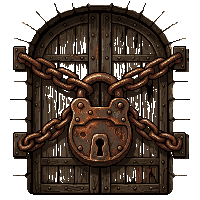
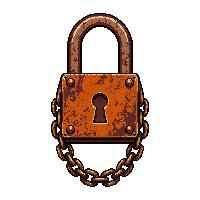
Uma porta só, acompanhamentos fora e confirmação pelo grupo
A cena da porta lia como cinco portas: cada barricada tinha sido gerada
com "blocking a doorway" e trouxe a própria moldura embutida.

- Os 5 objetos foram regerados isolados, sem moldura nem parede, e
  recompostos sobre a mesma porta: fita e tábuas pregadas nela, cadeado
  na lateral, halter encostado na base, cachorro de cone na frente.
  A porta agora aparece inteira e vai sendo liberada
- O cone saiu como um cachorro usando o cone, o que serve melhor à
  piada da veterinária; a mensagem acompanhou
- Acompanhamentos (arroz, vinagrete, feijão) removidos, junto com os
  ícones. O que levar virou só bebida alcoólica, se for beber
- Confirmação passa pelo grupo do WhatsApp em dois passos: copiar a
  mensagem e colar no grupo. Link de grupo não aceita texto
  pré-preenchido, só wa.me aceita, daí os dois passos
- Constante WHATSAPP removida

Verificado em 320 e 375px: sem estouro, sem alvo abaixo de 44px,
nenhuma imagem quebrada, console limpo.

diff --git a/index.html b/index.html
@@ -175,7 +175,7 @@ small{color:var(--fg-dim);}
   touch-action:manipulation;
 }
 #porta{
-  width:62%; grid-area:1/1; z-index:1;
+  width:74%; grid-area:1/1; z-index:1;
   filter:drop-shadow(0 12px 16px #000a);
   transition:opacity .2s ease;
 }
@@ -192,11 +192,13 @@ small{color:var(--fg-dim);}
 .barricada:focus-visible{outline:3px solid var(--gold); outline-offset:4px; border-radius:6px;}
 .barricada.quebrada{opacity:0; transform:scale(.35) rotate(calc(var(--r) + 30deg)); pointer-events:none;}
 
-#b-supino {top:-2%;  left:-4%;  width:56%; --r:-7deg;  transform:rotate(-7deg);}
-#b-cone   {top:4%;   right:-5%; width:45%; --r:9deg;   transform:rotate(9deg);}
-#b-fita   {top:34%;  left:9%;   width:76%; --r:-2deg;  transform:rotate(-2deg); z-index:6;}
-#b-tabuas {bottom:8%; left:-7%; width:54%; --r:6deg;   transform:rotate(6deg);}
-#b-cadeado{bottom:1%; right:-3%;width:43%; --r:-8deg;  transform:rotate(-8deg);}
+/* tudo encostado/pregado na MESMA porta: ela aparece inteira por baixo
+   e vai sendo liberada conforme cada objeto sai */
+#b-fita   {top:13%; left:24%;  width:52%; --r:-3deg; transform:rotate(-3deg);  z-index:6;}
+#b-tabuas {top:36%; left:21%;  width:58%; --r:2deg;  transform:rotate(2deg);   z-index:7;}
+#b-cadeado{top:49%; right:12%; width:25%; --r:-6deg; transform:rotate(-6deg);  z-index:8;}
+#b-supino {bottom:6%; left:-2%; width:48%; --r:-9deg; transform:rotate(-9deg); z-index:9;}
+#b-cone   {bottom:2%; right:4%; width:30%; --r:4deg;  transform:rotate(4deg);  z-index:9;}
 
 #vfx-camada{position:absolute; inset:0; pointer-events:none; z-index:9; display:grid; place-items:center;}
 #vfx-camada img{grid-area:1/1; opacity:0; transition:opacity .12s linear;}
@@ -356,6 +358,17 @@ textarea{min-height:76px; resize:vertical;}
 }
 .item[aria-pressed="true"] span{color:var(--fg);}
 
+.passos{display:flex; flex-direction:column; gap:10px;}
+.passo{display:flex; gap:11px; align-items:flex-start; margin-top:4px;}
+.passo .num{
+  flex:none; width:25px; height:25px; border-radius:50%;
+  background:var(--accent); color:#2a1206;
+  font-weight:900; font-size:14px;
+  display:flex; align-items:center; justify-content:center;
+}
+.passo b{display:block; font-size:14.5px; color:var(--fg); line-height:1.35;}
+.passo small{display:block; color:var(--fg-dim); font-size:12.5px; line-height:1.4; margin-top:2px;}
+
 #resumo{
   background:#15100d; border:1px dashed var(--wood); border-radius:10px;
   padding:13px; font-size:13.5px; line-height:1.65; color:var(--fg-dim);
@@ -440,8 +453,8 @@ footer a{color:#a08977;}
       <img src="assets/barricadas/barricada_supino.png" alt="">
     </button>
     <button class="barricada" id="b-cone" type="button"
-            data-msg="Até o paciente fugiu dessa porta."
-            aria-label="Tirar o cone de cachorro da frente da porta">
+            data-msg="Esse aí é paciente meu. Tá de boa, só não sai da frente."
+            aria-label="Tirar o cachorro de cone da frente da porta">
       <img src="assets/barricadas/barricada_cone.png" alt="">
     </button>
     <button class="barricada" id="b-fita" type="button"
@@ -501,7 +514,7 @@ footer a{color:#a08977;}
       <dd>Rua das Orquídeas<small>Condomínio Villaggio Jardins 3</small></dd>
       <div class="sep"></div>
       <dt>Leva</dt>
-      <dd>Sua bebida<small>e gelo, se puder</small></dd>
+      <dd>Sua bebida alcoólica<small>se for beber. O resto é comigo</small></dd>
     </dl>
     <div class="nota-carne">
       <span>A <b>carne é por minha conta</b>. Pode vir de mãos abanando.</span>
@@ -553,23 +566,6 @@ footer a{color:#a08977;}
           <label class="check"><input type="checkbox" id="bebe"> Vou beber álcool</label>
         </div>
 
-        <div id="bloco-itens" class="campo" hidden>
-          <span>Posso contar com você pra levar algo?</span>
-          <p style="font-size:12.5px; margin-bottom:2px;">Arroz eu não sei fazer. Se puder trazer algo, marca aí:</p>
-          <div class="itens" role="group" aria-label="O que você leva">
-            <button type="button" class="item" data-item="Arroz" aria-pressed="false">
-              <img src="assets/icones/icone_arroz.png" alt=""><span>Arroz</span>
-            </button>
-            <button type="button" class="item" data-item="Vinagrete" aria-pressed="false">
-              <img src="assets/icones/icone_vinagrete.png" alt=""><span>Vinagrete</span>
-            </button>
-            <button type="button" class="item" data-item="Feijão" aria-pressed="false">
-              <img src="assets/icones/icone_feijao.png" alt=""><span>Feijão</span>
-            </button>
-          </div>
-          <p style="font-size:12px; margin-top:4px;">Quem leva o quê a gente acerta no grupo. Ninguém precisa chegar com três panelas de arroz.</p>
-        </div>
-
         <label class="campo" for="recado">
           <span>Recado pro aniversariante (opcional)</span>
           <textarea id="recado" maxlength="240" placeholder="Zoeira é bem-vinda."></textarea>
@@ -580,8 +576,25 @@ footer a{color:#a08977;}
           <div id="resumo" aria-live="polite">Preenche aí em cima que eu monto sua mensagem.</div>
         </div>
 
-        <button id="enviar" class="btn btn-plaque" type="button">Enviar no WhatsApp</button>
-        <button id="copiar" class="btn btn-ghost" type="button">Copiar a mensagem</button>
+        <div class="passos">
+          <div class="passo">
+            <span class="num">1</span>
+            <div>
+              <b>Copie sua confirmação</b>
+              <small>o texto que aparece aí em cima</small>
+            </div>
+          </div>
+          <button id="copiar" class="btn btn-plaque" type="button">Copiar confirmação</button>
+
+          <div class="passo">
+            <span class="num">2</span>
+            <div>
+              <b>Entre no grupo e cole lá</b>
+              <small>é no grupo que eu organizo tudo: carne, horário e mudança de planos</small>
+            </div>
+          </div>
+          <a id="grupo" class="btn btn-primary" href="https://chat.whatsapp.com/HcoQIyc8Am85yQP3G7pUfu?s=cl&amp;p=i&amp;mlu=4&amp;ilr=4&amp;iam=2" target="_blank" rel="noopener">Entrar no grupo do churrasco</a>
+        </div>
         <p id="aviso-zap" class="center" role="status" aria-live="polite"></p>
 
       </div>
@@ -629,14 +642,6 @@ footer a{color:#a08977;}
 <script>
 (function(){
 "use strict";
-
-/* ============================================================
-   ⬇⬇⬇  COLE AQUI O SEU NÚMERO DE WHATSAPP  ⬇⬇⬇
-   Só dígitos: 55 (Brasil) + DDD + número.
-   Ex.: "5562999887766"
-   Enquanto estiver vazio, o botão copia a mensagem em vez de abrir o zap.
-   ============================================================ */
-var WHATSAPP = "";
 
 /* ---------------------- SOM (8-bit, mudo por padrão) ---------------------- */
 var ctx = null, mudo = true;
@@ -850,7 +855,6 @@ document.getElementById('maps').href =
 var status = null;
 var escolhas = Array.prototype.slice.call(document.querySelectorAll('.escolha'));
 var blocoAcomp = document.getElementById('bloco-acompanhante');
-var blocoItens = document.getElementById('bloco-itens');
 var temAcomp = document.getElementById('tem-acompanhante');
 var campoAcomp = document.getElementById('campo-acompanhante');
 var resumo = document.getElementById('resumo');
@@ -860,22 +864,13 @@ escolhas.forEach(function(btn){
   btn.addEventListener('click', function(){
     status = btn.getAttribute('data-status');
     escolhas.forEach(function(e){ e.setAttribute('aria-pressed', String(e === btn)); });
-    var vai = status !== 'nao';
-    blocoAcomp.hidden = !vai;
-    blocoItens.hidden = !vai;
+    blocoAcomp.hidden = (status === 'nao');
     montarResumo();
   });
 });
 temAcomp.addEventListener('change', function(){
   campoAcomp.hidden = !temAcomp.checked;
   montarResumo();
-});
-Array.prototype.forEach.call(document.querySelectorAll('.item'), function(it){
-  it.addEventListener('click', function(){
-    var on = it.getAttribute('aria-pressed') === 'true';
-    it.setAttribute('aria-pressed', String(!on));
-    montarResumo();
-  });
 });
 ['nome','nome-acompanhante','recado'].forEach(function(id){
   document.getElementById(id).addEventListener('input', montarResumo);
@@ -884,10 +879,6 @@ Array.prototype.forEach.call(document.querySelectorAll('.item'), function(it){
   document.getElementById(id).addEventListener('change', montarResumo);
 });
 
-function itensEscolhidos(){
-  return Array.prototype.slice.call(document.querySelectorAll('.item[aria-pressed="true"]'))
-    .map(function(i){ return i.getAttribute('data-item'); });
-}
 function valor(id){ return (document.getElementById(id).value || '').trim(); }
 
 function montarMensagem(){
@@ -904,11 +895,8 @@ function montarMensagem(){
     }
     var extras = [];
     if(document.getElementById('veg').checked) extras.push('vegetariano(a)');
-    if(document.getElementById('bebe').checked) extras.push('bebe álcool');
+    if(document.getElementById('bebe').checked) extras.push('vou levar bebida');
     if(extras.length) linhas.push('*Obs:* ' + extras.join(', '));
-
-    var itens = itensEscolhidos();
-    if(itens.length) linhas.push('*Eu levo:* ' + itens.join(', '));
   }
 
   var rec = valor('recado');
@@ -925,7 +913,7 @@ function montarResumo(){
   resumo.textContent = montarMensagem().replace(/\*/g, '');
 }
 
-document.getElementById('enviar').addEventListener('click', function(){
+document.getElementById('copiar').addEventListener('click', function(){
   if(!status){
     aviso.style.color = 'var(--bad)';
     aviso.textContent = 'Falta escolher: Bora, Talvez ou Não vou.';
@@ -934,30 +922,18 @@ document.getElementById('enviar').addEventListener('click', function(){
   }
   if(!valor('nome')){
     aviso.style.color = 'var(--bad)';
-    aviso.textContent = 'Coloca seu nome aí em cima, senão eu não sei quem é 😅';
+    aviso.textContent = 'Coloca seu nome aí em cima, senão eu não sei quem é.';
     document.getElementById('nome').focus();
     return;
   }
-  var texto = montarMensagem();
   sfxOk();
-  if(WHATSAPP){
-    window.open('https://wa.me/' + WHATSAPP + '?text=' + encodeURIComponent(texto), '_blank', 'noopener');
-    aviso.style.color = 'var(--ok)';
-    aviso.textContent = status === 'sim'
-      ? 'Abri o WhatsApp — é só mandar. Depois não encosta em nada meu. 😏'
-      : 'Abri o WhatsApp — é só mandar.';
-  } else {
-    copiar(texto, 'Número do zap ainda não configurado — copiei a mensagem, manda pro aniversariante.');
-  }
+  copiar(montarMensagem(), 'Copiado. Agora entra no grupo e cola lá.');
 });
 
-document.getElementById('copiar').addEventListener('click', function(){
-  if(!status){
-    aviso.style.color = 'var(--bad)';
-    aviso.textContent = 'Escolhe uma opção antes de copiar.';
-    return;
-  }
-  copiar(montarMensagem(), 'Copiado! Agora é só colar no WhatsApp. 📋');
+document.getElementById('grupo').addEventListener('click', function(){
+  if(status && valor('nome')) return;
+  aviso.style.color = 'var(--warn)';
+  aviso.textContent = 'Dica: preenche e copia a confirmação antes, pra já colar no grupo.';
 });
 
 function copiar(texto, okMsg){

diff --git a/README.md b/README.md
@@ -12,19 +12,18 @@ da frente de uma porta remendada até ela ceder — aí o convite aparece.
 | 1. A porta | 5 entulhos clicáveis (supino, cone de cachorro, fita de bug, tábuas, cadeado), cada um com tremida de tela, efeito de impacto, som 8-bit e uma piada. Barra de integridade de 100% a 0%. |
 | 2. Revelação | A porta racha, cai com poeira e revela o quintal. O aniversariante aparece animado; cutuque-o para ver outras poses (a 4ª é um easter egg). |
 | 3. Convite | Data, hora, endereço com link do Maps e contagem regressiva ao vivo. |
-| 4. Confirmação | Formulário que monta uma mensagem formatada e abre o WhatsApp já preenchido. |
+| 4. Confirmação | Formulário que monta uma mensagem formatada, em dois passos: copiar e colar no grupo do WhatsApp. |
 | 5. Painel | Área privada em `#painel`: lista de confirmados com check-in e cálculo de compras. |
 
-## ⚙ Configurar antes de divulgar
+## ⚙ O link do grupo
 
-Abra `index.html` e preencha o número de WhatsApp que recebe as confirmações:
+A confirmação acontece no grupo do WhatsApp. O link está no `href` do
+elemento `#grupo`, dentro do `index.html`.
 
-```js
-var WHATSAPP = "5562999887766"; // 55 + DDD + número, só dígitos
-```
-
-Enquanto estiver vazio, o botão copia a mensagem para a área de transferência
-em vez de abrir o WhatsApp — a página continua funcionando.
+Links de convite de grupo (`chat.whatsapp.com`) **não aceitam mensagem
+pré-preenchida** — só links de conversa direta (`wa.me`) aceitam `?text=`.
+Por isso o fluxo é em dois passos: a página monta a mensagem, a pessoa
+copia e cola no grupo depois de entrar.
 
 ## Painel do organizador
 
@@ -39,11 +38,10 @@ index.html              página inteira (HTML + CSS + JS, sem dependências)
 assets/
   personagem/           8 direções + 5 animações de 5 frames
   porta/                3 estados (completa, rachando, caída)
-  barricadas/           5 objetos
+  barricadas/           5 objetos isolados, encostados na porta
   cenario/              quintal do churrasco
   vfx/                  impacto, poeira, fumaça
   ui/                   moldura, placa de botão, fonte pixel
-  icones/               arroz, vinagrete, feijão
 CONTEXTO.md             decisões do projeto
 ROADMAP.md              fases e o que foi entregue
 ```

diff --git a/ROADMAP.md b/ROADMAP.md
@@ -71,6 +71,36 @@ Ordem sugerida, cada item aprovado antes de seguir pro próximo:
 - [x] Moldura e placa de madeira com `border-image` fatiado (não deforma o pixel art)
 - [x] Fonte pixel aplicada só em números/rótulos ASCII (ela não tem acentos)
 
+## Fase 8 — Ajustes pós-publicação 🔧
+
+### 8.1 A porta: uma só, sendo desobstruída ✅
+**Problema:** cada barricada foi gerada com "blocking a doorway", então cada PNG tinha a
+própria moldura de porta embutida. Empilhadas, liam-se como cinco portas.
+
+- [x] Regerados os 5 objetos **isolados** via `create_image_pixflux` (1 geração cada,
+      5 no total, contra 50 pelo caminho de objeto)
+- [x] Recomposta a cena: fita e tábuas pregadas na porta, cadeado na lateral,
+      halter encostado na base, cachorro de cone sentado na frente
+- [x] A porta agora aparece inteira por baixo e vai sendo liberada
+- [x] O cone virou um cachorro usando o cone — melhor pra piada da veterinária
+
+### 8.2 Acompanhamentos saem ✅
+- [x] Removidos os 3 cards e a pasta `assets/icones/`
+- [x] O que levar virou só: **bebida alcoólica, se for beber**
+
+### 8.3 Confirmação passa pelo grupo ✅
+**Restrição:** link de grupo (`chat.whatsapp.com`) não aceita `?text=` pré-preenchido —
+só `wa.me` aceita. Por isso o fluxo virou dois passos.
+
+- [x] Passo 1: "Copiar confirmação" (a página monta a mensagem)
+- [x] Passo 2: "Entrar no grupo do churrasco" com o link do grupo
+- [x] Formulário mantido, alimentando a mensagem que se cola no grupo
+- [x] Constante `WHATSAPP` removida (não é mais usada)
+
+### 8.4 Fechamento ✅
+- [x] Testado em 320/375px, console limpo
+- [x] Publicado
+
 ## Fase 7 — Envio 🚀
 - [x] Publicado no GitHub Pages: **https://ruantgoncalves.github.io/Convite-Aniverssario/**
 - [x] Repositório: https://github.com/RuanTGoncalves/Convite-Aniverssario (fotos pessoais ficaram fora via `.gitignore`)
